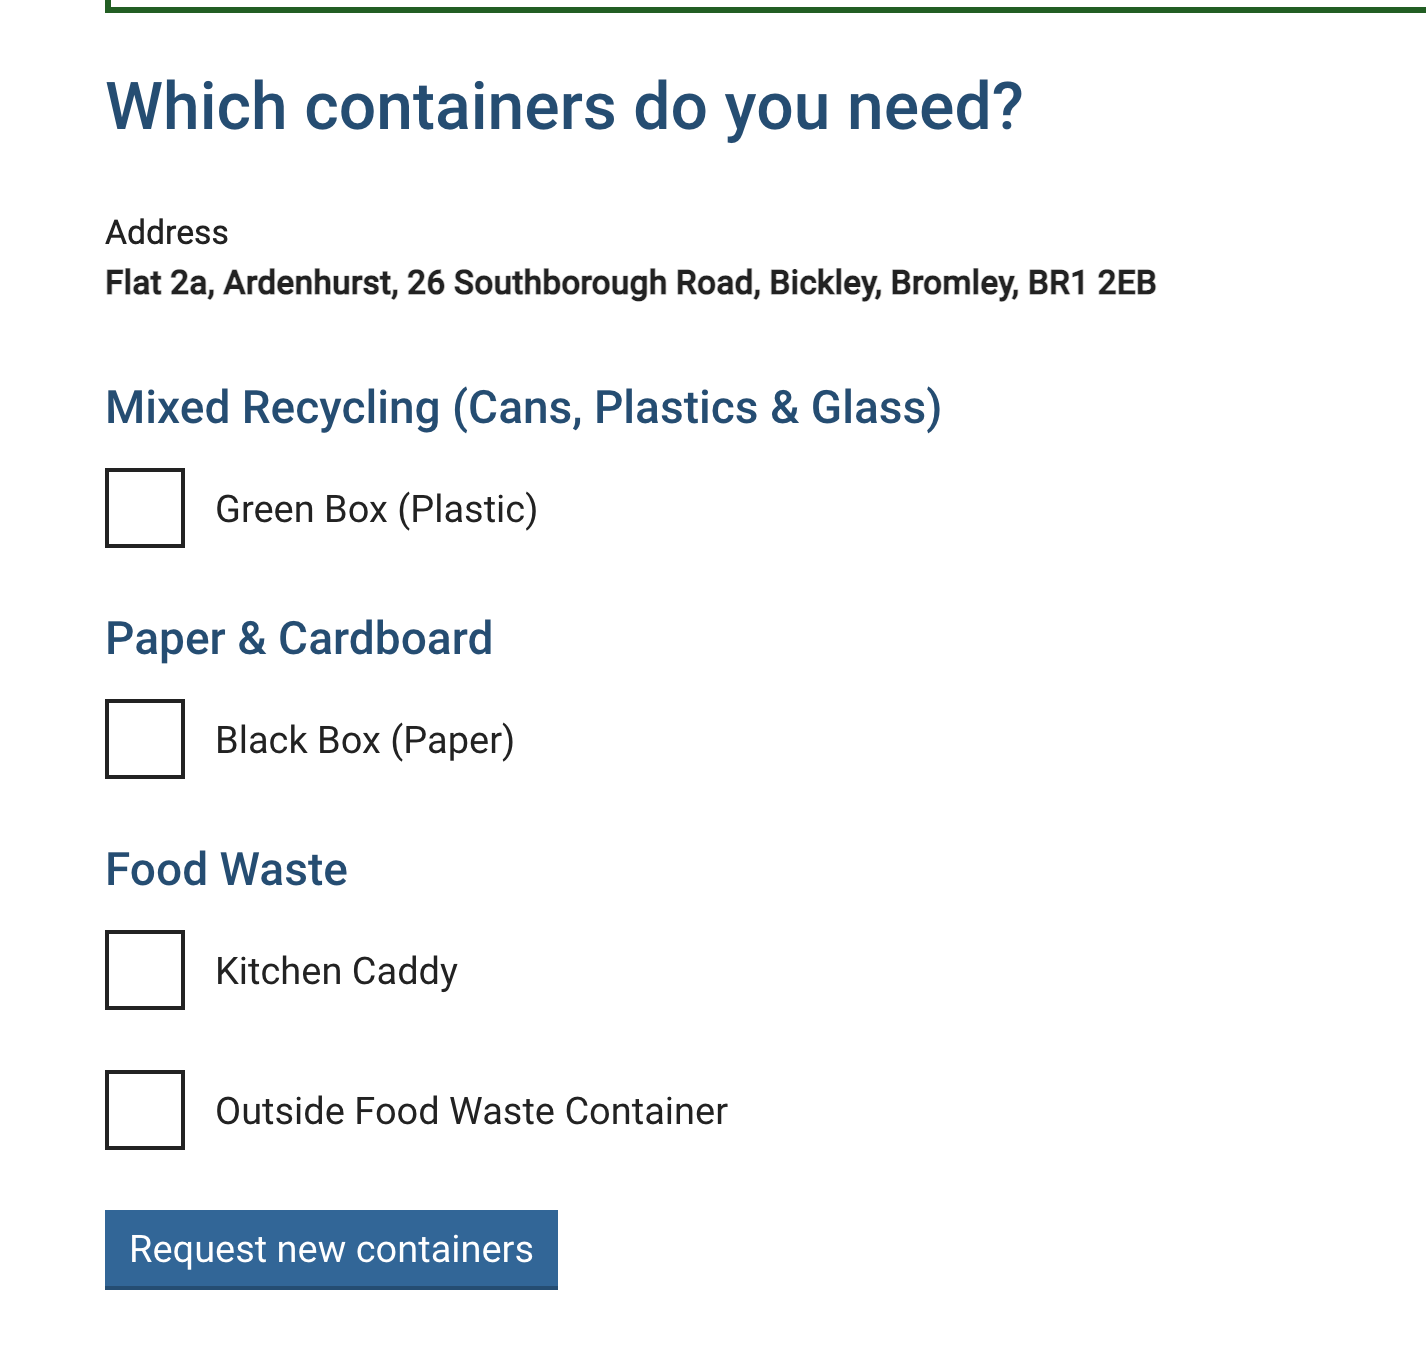
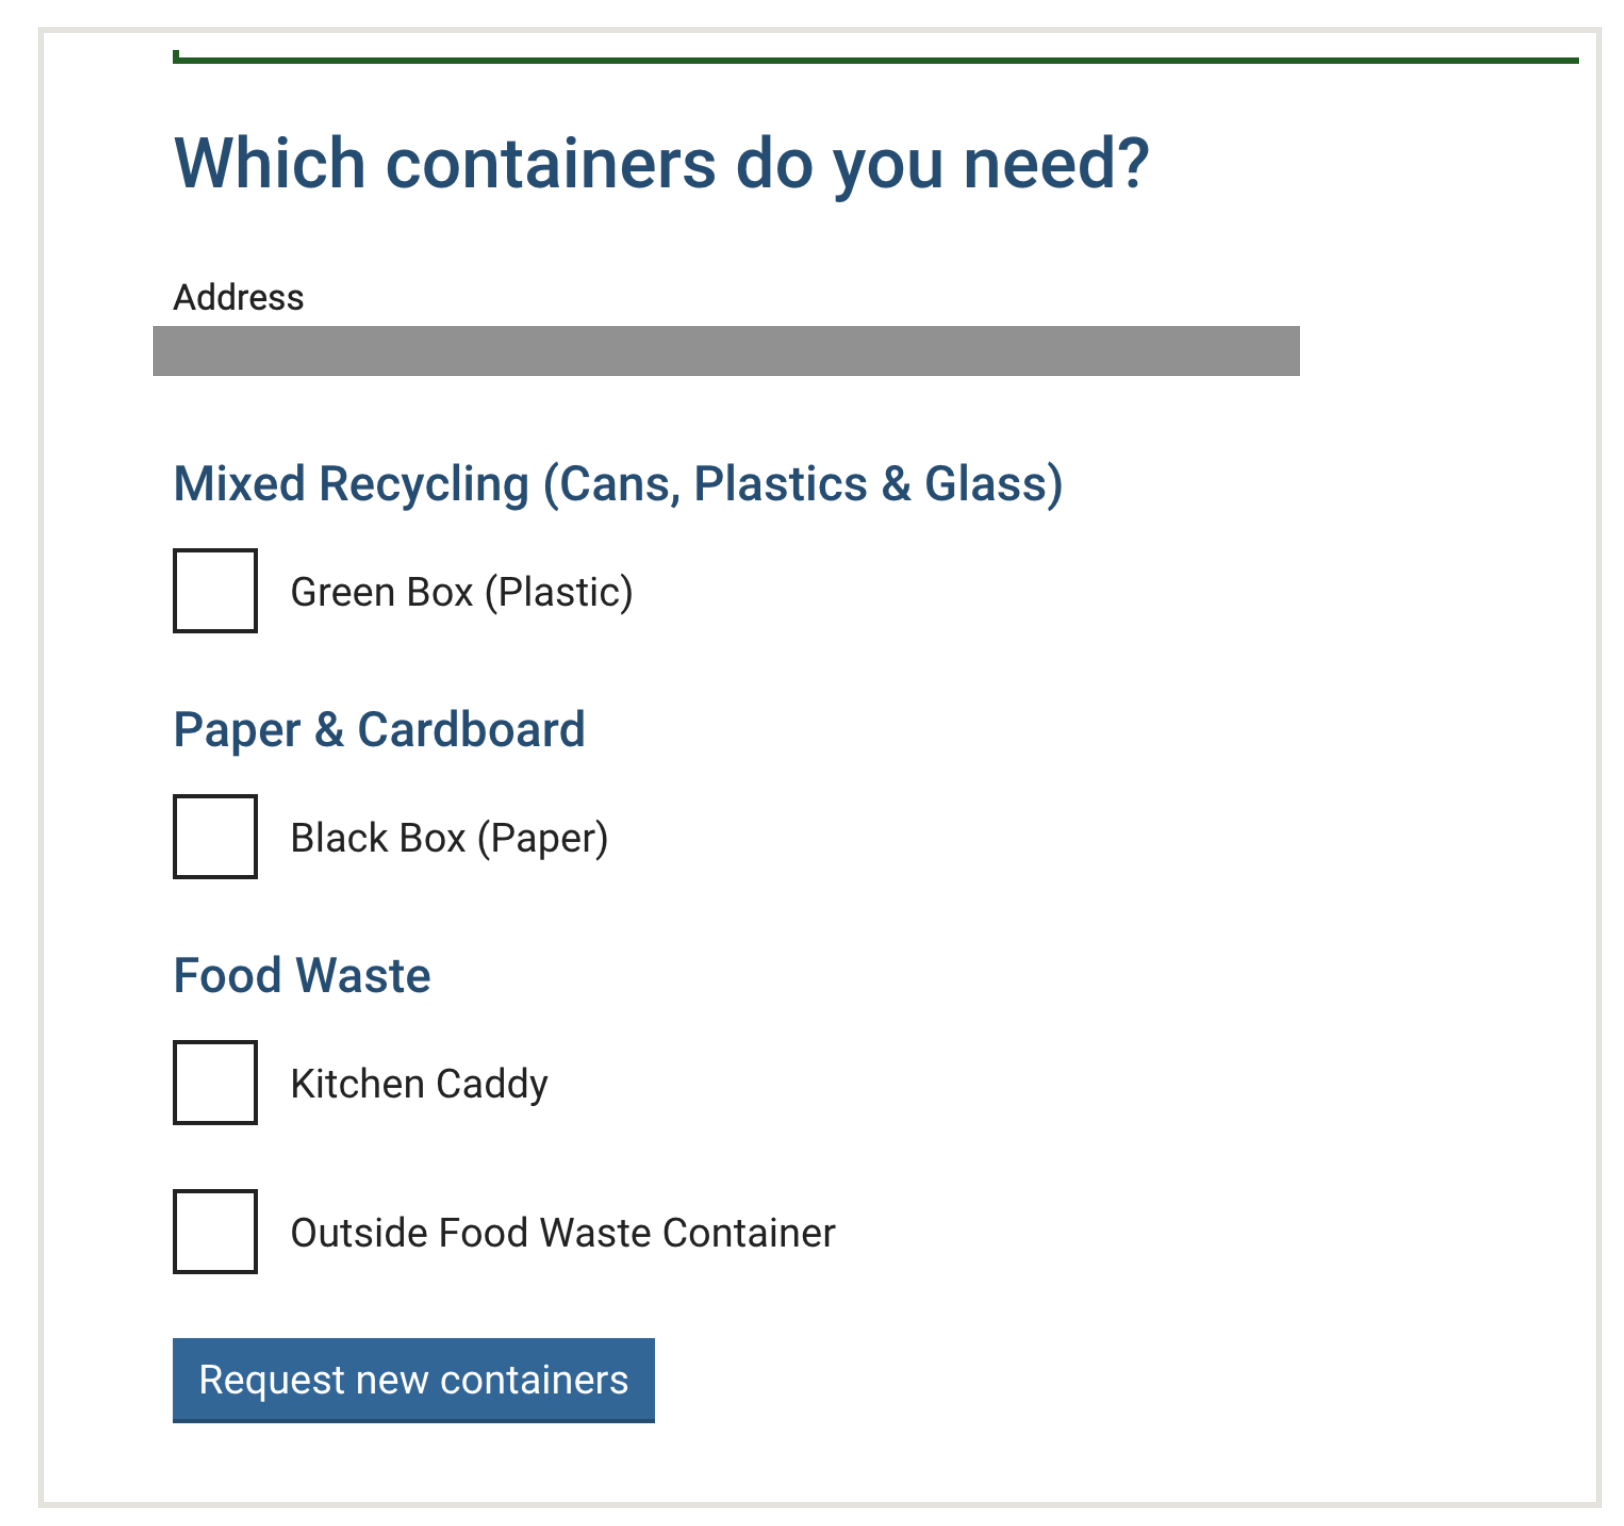
Minor copy and image changes.
I have edited a couple of minor typos spotted by Amelia on the WW manual
homepage, and swapped a few images to blur out addresses.

diff --git a/docs/ww-manual/resident-experience.md b/docs/ww-manual/resident-experience.md
@@ -41,7 +41,7 @@ They will then be asked for some basic information before being able to submit t
 
 ### Reporting a missed collection
 
-To report a missed collection, from the main ‘Your bin days’ page the resident will be asked to select the bin in question and provide their contact details so that updates can be provided.
+To report a missed collection, from the main ‘Your bin days’ page the resident will be asked to select the bin in question and provide their contact details so that updates can be provided. They can also find a link to report a missed collection beneath each available bin collection listed on the main page.
 
 <img alt="Report a missed collection" src="/assets/img/ww-user-guide/WasteWorks-report-missed-collection.png" class="admin-screenshot" />
 

diff --git a/docs/ww-manual/index.md b/docs/ww-manual/index.md
@@ -22,13 +22,13 @@ Being a long-term user of FixMyStreet Pro, Bromley Council shared our desire to 
 
 Similarly to FixMyStreet Pro, WasteWorks integrates with in-cab systems, facilitating a two-way flow of data between council and resident, as well as helping to streamline processes without adding any complexity for residents.
 
-WasteWorks was shortlisted for an LGA Award within its first year of launch.
+WasteWorks was shortlisted for an LGC Award within its first year of launch.
 
 ## WasteWorks features for residents
 
 - Check bin days
 - Report missed bins
-- Report other problem with collections
+- Report other problems with collections
 - Request new or extra containers
 - Pay for a bulky or green waste collection or subscription
 - Renew or cancel subscriptions
